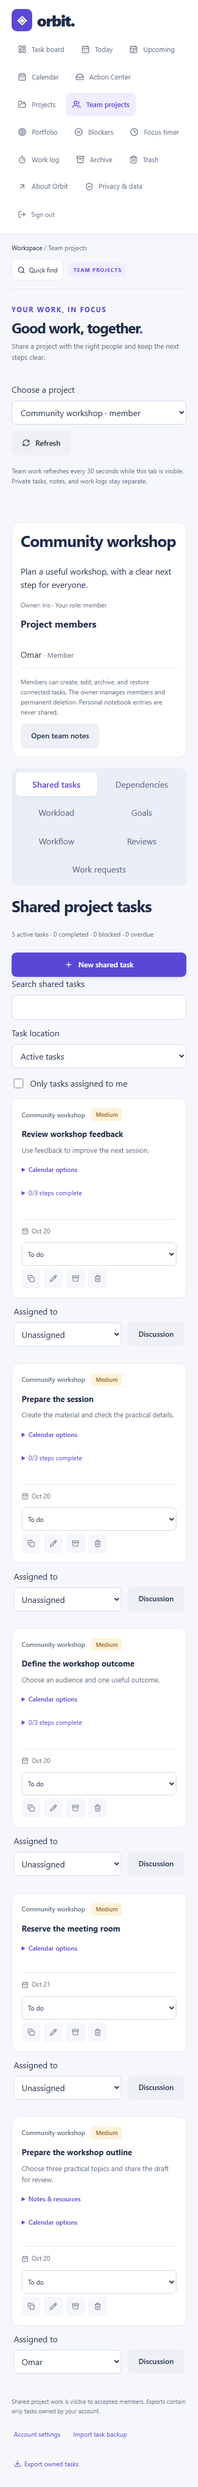
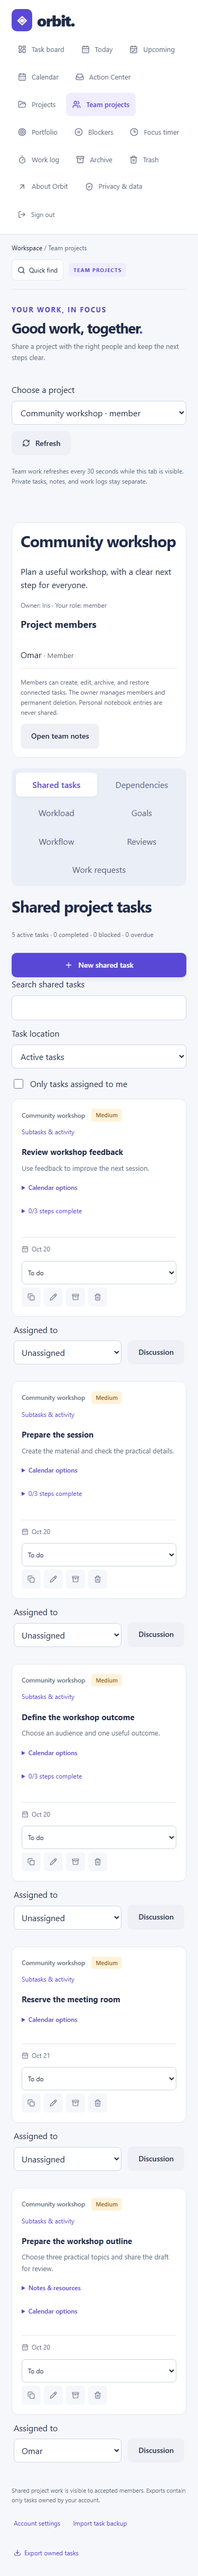
docs: document subtasks, activity safeguards and verified workflows

diff --git a/docs/PRODUCT_DIRECTION.md b/docs/PRODUCT_DIRECTION.md
@@ -13,7 +13,7 @@ Orbit already has private accounts, a task board, priorities, deadlines, search,
 Important distinctions:
 
 - Private project records now hold a brief, dates, and planning status. New tasks also have stable private project references; older groups can be connected explicitly. Accepted memberships, assignments and shared tasks are implemented.
-- A checklist step is not an independently assigned subtask.
+- Checklists are embedded steps; account users can also create one-level subtasks with independent status, deadlines and assignment.
 - The focus timer is separate from persisted manual work logs and weekly timesheets. Neither proves billable hours or available capacity.
 - A progress percentage is a completed-task ratio, not a delivery forecast.
 - Ownership protects private records; shared project routes enforce owner/member/guest roles.
@@ -42,7 +42,7 @@ Project records, stable task references and explicit legacy linking are implemen
 
 Dependencies reject cycles and cross-project links. Owner-reviewed date proposals use explicit calendar-day assumptions and conflict-safe batches. Workload uses estimates and project-scoped weekly capacity, keeping missing estimates and undated work visible.
 
-A checklist is still a sequence of steps inside one task; it is not a separate assigned subtask. External calendar handoff is a manual snapshot; it is not two-way synchronization.
+A checklist is a sequence of embedded steps. Independent subtasks are separate tasks in the same project; parent completion does not automatically complete them. External calendar handoff is a manual snapshot; it is not two-way synchronization.
 
 ## UI direction
 
@@ -70,42 +70,42 @@ Before shipping another feature, name the problem, define the smallest useful wo
 
 The proposal, excluding AI assistance at the user's request, is authorized for incremental implementation after the saved baseline `orbit-snapshot-2026-10-09`. Each milestone must remain usable, validated, and tested. Per the latest user instruction on October 10, push verified work in meaningful feature commits. Keep the saved baseline tag unchanged. Integrations requiring external accounts will be identified explicitly.
 
-| Proposal area                                                          | Current delivery status                                                                                                                                                                                                             |
-| ---------------------------------------------------------------------- | ----------------------------------------------------------------------------------------------------------------------------------------------------------------------------------------------------------------------------------- |
-| 1. Workspaces, projects, tasks, ownership, subtasks, context, recovery | Personal task foundation and context implemented; recovery and private project records implemented; stable references and explicit linking implemented; in-app invitations, accepted memberships and shared task access implemented |
-| 2. Multiple views / My Work                                            | Board, list, Today, Upcoming implemented; monthly deadline calendar and recorded project timeline implemented; owner-reviewed dependency date proposals and conflict-safe batches implemented                                       |
-| 3. Dependencies                                                        | Implemented: scoped prerequisite links, whole-graph cycle checks and safe concurrent mutations; owner-reviewed earliest-start scheduling implemented with explicit calendar-day assumptions                                         |
-| 4. Milestones                                                          | Implemented: private project checkpoints with dates and completion                                                                                                                                                                  |
-| 5. Useful dashboard                                                    | Implemented: personal overview plus bounded owned/joined project portfolio with health, progress and deadline summaries                                                                                                             |
-| 6. Workload and capacity                                               | Implemented: task estimates, weekly project capacity, due/overdue workload, undated and unestimated warnings                                                                                                                        |
-| 7. Time tracking                                                       | Local focus timer and persisted manual work logs/weekly timesheets implemented; billing integrations pending                                                                                                                        |
-| 8. Notifications and digest                                            | Implemented: invitations, targeted unread discussion notifications, review inbox and actionable in-app work digest; email/push delivery requires an external provider                                                               |
-| 9. Contextual team communication                                       | Implemented: paginated discussion, targeted teammate notifications, safe text and owner moderation; live sockets pending                                                                                                            |
-| 10. Approvals                                                          | Implemented: captured briefs and optional resource-link approvals, designated reviewers, approval/change/cancel decisions; hosted binary versions are outside the bounded version                                                   |
-| 11. Blockers                                                           | Implemented: required reasons, dedicated view, and project counts                                                                                                                                                                   |
-| 12. Project health                                                     | Implemented: explained flags for blockers, overdue work, missed milestones, and planning conflicts                                                                                                                                  |
-| 13. Roles and permissions                                              | Owner/member/guest permissions implemented; guests use a separate restricted read-only portal                                                                                                                                       |
-| 14. Guest/client portal                                                | Implemented: account invitations and restricted read-only project/task summaries; no anonymous public share links                                                                                                                   |
-| 15. Project templates                                                  | Implemented: task/checklist starters and three retry-safe multi-task project blueprints                                                                                                                                             |
-| 16. Recurring tasks                                                    | Implemented: daily/weekly/monthly next occurrence on completion; no background scheduler                                                                                                                                            |
-| 17. Forms / work requests                                              | Implemented: authenticated and optional public intake, revocable links, owner triage and retry-safe task creation                                                                                                                   |
-| 18. Automation                                                         | Implemented: opt-in checklist completion and bounded overdue-priority rules, manual run and daily scheduled sweep                                                                                                                   |
-| 19. Integrations                                                       | Implemented: private iCalendar exports and Google Calendar event handoff; live OAuth connections still require provider configuration                                                                                               |
-| 20. Command bar / global search                                        | Implemented: quick command bar, project/view navigation, and full-board task search                                                                                                                                                 |
-| 21. Team directory                                                     | Implemented: project owner and accepted member names; owner invitation management                                                                                                                                                   |
-| 22. Project notes / documentation                                      | Implemented: private and shared project notes, decisions and meetings plus task notes/resource links; rich-text editing is outside the bounded version                                                                              |
-| 23. Decision log                                                       | Implemented: private and shared editable decision entries; not an immutable audit log                                                                                                                                               |
-| 24. Meeting action items                                               | Implemented: meeting records and editable follow-up task creation; scheduling/invitations pending                                                                                                                                   |
-| 25. AI assistance                                                      | Excluded at the user's request; no AI assistant or AI-generated features planned                                                                                                                                                    |
-| 26. Action Center                                                      | Implemented: unified unfinished blocked/overdue/urgent/imminent work with reasons                                                                                                                                                   |
-| 27. Portfolio                                                          | Implemented: private cards/timeline and owned/joined project portfolio with search, pagination and actionable digest                                                                                                                |
-| 28. Goals / OKRs                                                       | Implemented: project objectives, measurable results, increasing/decreasing targets and conflict-safe manual progress                                                                                                                |
-| 29. Admin / export / account lifecycle                                 | Private task export and validated retry-safe imports implemented; one-time recovery/password changes and resumable account deletion implemented; protected daily cleanup configured for deployment                                  |
-| 30. UX                                                                 | Responsive baseline implemented; ongoing polish and verification                                                                                                                                                                    |
+| Proposal area                                                          | Current delivery status                                                                                                                                                                                                                                                                             |
+| ---------------------------------------------------------------------- | --------------------------------------------------------------------------------------------------------------------------------------------------------------------------------------------------------------------------------------------------------------------------------------------------- |
+| 1. Workspaces, projects, tasks, ownership, subtasks, context, recovery | Personal task foundation and context implemented; recovery and private project records implemented; stable references and explicit linking implemented; in-app invitations, accepted memberships and shared task access implemented; one-level independent subtasks and recent activity implemented |
+| 2. Multiple views / My Work                                            | Board, list, Today, Upcoming implemented; monthly deadline calendar and recorded project timeline implemented; owner-reviewed dependency date proposals and conflict-safe batches implemented                                                                                                       |
+| 3. Dependencies                                                        | Implemented: scoped prerequisite links, whole-graph cycle checks and safe concurrent mutations; owner-reviewed earliest-start scheduling implemented with explicit calendar-day assumptions                                                                                                         |
+| 4. Milestones                                                          | Implemented: private project checkpoints with dates and completion                                                                                                                                                                                                                                  |
+| 5. Useful dashboard                                                    | Implemented: personal overview plus bounded owned/joined project portfolio with health, progress and deadline summaries                                                                                                                                                                             |
+| 6. Workload and capacity                                               | Implemented: task estimates, weekly project capacity, due/overdue workload, undated and unestimated warnings                                                                                                                                                                                        |
+| 7. Time tracking                                                       | Local focus timer and persisted manual work logs/weekly timesheets implemented; billing integrations pending                                                                                                                                                                                        |
+| 8. Notifications and digest                                            | Implemented: invitations, targeted unread discussion notifications, review inbox and actionable in-app work digest; email/push delivery requires an external provider                                                                                                                               |
+| 9. Contextual team communication                                       | Implemented: paginated discussion, targeted teammate notifications, safe text and owner moderation; live sockets pending                                                                                                                                                                            |
+| 10. Approvals                                                          | Implemented: captured briefs and optional resource-link approvals, designated reviewers, approval/change/cancel decisions; hosted binary versions are outside the bounded version                                                                                                                   |
+| 11. Blockers                                                           | Implemented: required reasons, dedicated view, and project counts                                                                                                                                                                                                                                   |
+| 12. Project health                                                     | Implemented: explained flags for blockers, overdue work, missed milestones, and planning conflicts                                                                                                                                                                                                  |
+| 13. Roles and permissions                                              | Owner/member/guest permissions implemented; guests use a separate restricted read-only portal                                                                                                                                                                                                       |
+| 14. Guest/client portal                                                | Implemented: account invitations and restricted read-only project/task summaries; no anonymous public share links                                                                                                                                                                                   |
+| 15. Project templates                                                  | Implemented: task/checklist starters and three retry-safe multi-task project blueprints                                                                                                                                                                                                             |
+| 16. Recurring tasks                                                    | Implemented: daily/weekly/monthly next occurrence on completion; no background scheduler                                                                                                                                                                                                            |
+| 17. Forms / work requests                                              | Implemented: authenticated and optional public intake, revocable links, owner triage and retry-safe task creation                                                                                                                                                                                   |
+| 18. Automation                                                         | Implemented: opt-in checklist completion and bounded overdue-priority rules, manual run and daily scheduled sweep                                                                                                                                                                                   |
+| 19. Integrations                                                       | Implemented: private iCalendar exports and Google Calendar event handoff; live OAuth connections still require provider configuration                                                                                                                                                               |
+| 20. Command bar / global search                                        | Implemented: quick command bar, project/view navigation, and full-board task search                                                                                                                                                                                                                 |
+| 21. Team directory                                                     | Implemented: project owner and accepted member names; owner invitation management                                                                                                                                                                                                                   |
+| 22. Project notes / documentation                                      | Implemented: private and shared project notes, decisions and meetings plus task notes/resource links; rich-text editing is outside the bounded version                                                                                                                                              |
+| 23. Decision log                                                       | Implemented: private and shared editable decision entries; not an immutable audit log                                                                                                                                                                                                               |
+| 24. Meeting action items                                               | Implemented: meeting records and editable follow-up task creation; scheduling/invitations pending                                                                                                                                                                                                   |
+| 25. AI assistance                                                      | Excluded at the user's request; no AI assistant or AI-generated features planned                                                                                                                                                                                                                    |
+| 26. Action Center                                                      | Implemented: unified unfinished blocked/overdue/urgent/imminent work with reasons                                                                                                                                                                                                                   |
+| 27. Portfolio                                                          | Implemented: private cards/timeline and owned/joined project portfolio with search, pagination and actionable digest                                                                                                                                                                                |
+| 28. Goals / OKRs                                                       | Implemented: project objectives, measurable results, increasing/decreasing targets and conflict-safe manual progress                                                                                                                                                                                |
+| 29. Admin / export / account lifecycle                                 | Private task export and validated retry-safe imports implemented; one-time recovery/password changes and resumable account deletion implemented; protected daily cleanup configured for deployment                                                                                                  |
+| 30. UX                                                                 | Responsive baseline implemented; ongoing polish and verification                                                                                                                                                                                                                                    |
 
 ### Delivery scope
 
-The table distinguishes usable bounded implementations from larger service variants. AI assistance is excluded. Live OAuth sync, outbound email/push, live sockets and independently assigned subtasks are not shipped yet. File resources use validated external links rather than hosted uploads. No claim is made that every enterprise variant in the supplied catalogue is complete.
+The table distinguishes usable bounded implementations from larger service variants. AI assistance is excluded. Live OAuth sync, outbound email/push and live sockets are not shipped yet. One-level independent subtasks and bounded recent task activity are implemented for accounts; the local demo retains its existing task/checklist workflow. File resources use validated external links rather than hosted uploads. No claim is made that every enterprise variant in the supplied catalogue is complete.
 
 ### Team delivery limits
 

diff --git a/README.md b/README.md
@@ -49,6 +49,8 @@ Built by **Sheheryar Ahmad**, a Semester 5 Software Engineering student at **COM
 
 ![Owned and joined project portfolio with an actionable work digest](docs/screenshots/portfolio-desktop.png)
 
+![Task details with independently assigned subtasks](docs/screenshots/task-details-desktop.png)
+
 ![Recorded project date ranges on a monthly timeline](docs/screenshots/timeline-desktop.png)
 
 ![Quiet focus timer with pause, reset, and session length controls](docs/screenshots/focus-desktop.png)
@@ -65,6 +67,8 @@ Screenshots are from the working local demo using illustrative sample tasks.
 
 | Feature                   | What it solves                                                                                 |
 | ------------------------- | ---------------------------------------------------------------------------------------------- |
+| Independent subtasks      | Break work into one-level child tasks with their own status, deadline and assignee             |
+| Recent task activity      | See up to 50 actions and changed field names without keeping duplicate private note content    |
 | Resource reviews          | Capture task document/design links and record a designated reviewer’s feedback                 |
 | Discussion notifications  | Flag a comment for one teammate and acknowledge it in the work digest                          |
 | Public request forms      | Optional revocable links, account-free proposals, bounded submissions and private owner triage |
@@ -259,7 +263,7 @@ npm run build
 npm run format:check
 ```
 
-**Verified locally:** 83 API/input/planning/timer/password/template/recovery/export/recurrence/project tests and Chromium browser flows covering demo CRUD, storage persistence, search, filters, safe text rendering, mobile overflow, dialog Escape, checklists, task duplication, template previews and replacement protection, list actions and pagination, blockers, archive/trash restoration, private downloads, daily views, overnight date changes, project progress, focus pause/refresh/completion, registration, database-backed persistence, logout, and login. Expanded checks cover whole-month calendar queries, leap years, Action Center rules, milestones, health explanations, command navigation, notebook decisions/meetings, follow-up drafts, weekly time totals, private APIs, and explicit legacy linking. Team checks cover invitation state transitions, cross-project isolation, removed/pending users, role restrictions, assignment eligibility, private/team note separation, discussion moderation, review decisions and inbox access. Browser tests exercise two separate authenticated accounts and team layouts at 320–1440px.
+**Verified locally:** 88 API/input/planning/timer/password/template/recovery/export/recurrence/project tests and Chromium browser flows covering demo CRUD, storage persistence, search, filters, safe text rendering, mobile overflow, dialog Escape, checklists, task duplication, template previews and replacement protection, list actions and pagination, blockers, archive/trash restoration, private downloads, daily views, overnight date changes, project progress, focus pause/refresh/completion, registration, database-backed persistence, logout, and login. Expanded checks cover whole-month calendar queries, leap years, Action Center rules, milestones, health explanations, command navigation, notebook decisions/meetings, follow-up drafts, weekly time totals, private APIs, and explicit legacy linking. Team checks cover invitation state transitions, cross-project isolation, removed/pending users, role restrictions, assignment eligibility, private/team note separation, discussion moderation, review decisions and inbox access. Browser tests exercise two separate authenticated accounts and team layouts at 320–1440px.
 
 For browser checks:
 
@@ -345,10 +349,11 @@ See [the delivery tracker](docs/PRODUCT_DIRECTION.md) for implemented capabiliti
 - [x] Recovery-code password reset, password changes, and account deletion
 - [x] Portfolio, work digest, and targeted discussion notifications
 - [x] Optional public work requests and resource-link reviews
-- [ ] Independent assigned subtasks
+- [x] One-level subtasks with independent deadlines, status and assignment
+- [x] Bounded recent task activity with privacy-safe field names
 - [ ] Email verification and email-based recovery/delivery
 - [ ] Live Google Calendar OAuth integration
-- [ ] Activity history and optional live task updates
+- [ ] Optional live task updates (current team refresh uses polling)
 - [ ] Accessibility audit and measured production performance
 - [ ] Live deployment link and LinkedIn walkthrough
 

diff --git a/docs/API.md b/docs/API.md
@@ -227,3 +227,16 @@ PATCH /collaboration/:taskId/comments/:commentId/read with {} acknowledges only 
 Review creation accepts optional includeResources: true. The server captures up to eight validated resource labels/URLs from the current scoped task; caller-supplied resources are rejected, and a task without resources cannot request a resource review. Listing returns the captured resources alongside the brief. The designated reviewer uses the normal approve/request-changes flow.
 
 Later task-link edits never replace a review snapshot. External file contents can change at the same URL; Orbit does not fetch, upload, fingerprint or lock those files. This records approval of the brief and linked resources presented for review, not an immutable binary-file version.
+
+### Independent subtasks and recent task activity
+
+Account routes (also available under `/api/projects/:projectId/tasks` for accepted members):
+
+- `GET /api/tasks/:id/details?page=1`: scoped parent summary, 30 children/page, eligible assignees, pending setup title and the latest 50 activity events. Guests, revoked members and other owners cannot access details.
+- `POST /api/tasks/:id/subtasks { key: UUID, task: taskDraft }`: one-level child in the same project, with independent status/deadline/assignment. Task drafts cannot inject owner, parent or project IDs. Recurring tasks cannot be parents or children.
+- `POST /api/tasks/:id/subtasks/resume {}`: repair interrupted reserved setup. Reuses the saved ID without overwriting an existing child. Active worker leases return 409; retry after one minute.
+- `PATCH /api/tasks/:id/subtasks/detach {}`: make an active child independent without changing its content/project/assignment. Pending setup must finish first.
+
+Creation uses a normalized-content digest and persisted receipt. Identical completed retries return the existing child, or `{ task: null, previouslyRemoved: true }` if it was removed/detached. Changed content under the same key returns 409. Each root supports 100 retained children and 200 lifetime creation receipts. Requests use existing account/IP limits. Pending setup blocks parent lifecycle/project changes. Child lifecycle/detach operations also wait while their setup is pending. Parent completion/archive/trash does not cascade; retained children (including Trash/archive) block parent moves, recurrence and permanent deletion. This is a resumable workflow on standalone MongoDB, not an all-or-nothing transaction.
+
+Activity records actor name, action, field names and time, without previous values. Normal board responses omit history and setup receipts/drafts. Project moves reset history; deleted actors become `Former account`. Recorded task changes include ordinary edits, assignment, lifecycle, subtask setup/detach, imports, templates, recurring creation, overdue priority rules and dependency schedule application. It does not record every read, discussion or project-level action and is not a compliance audit log. Previously existing records have no retroactive events. Task exports retain parent IDs as metadata; imports deliberately flatten subtasks into independent tasks in the new private project. The import confirmation states this behavior.

diff --git a/docs/ARCHITECTURE.md b/docs/ARCHITECTURE.md
@@ -45,7 +45,11 @@ The local demo uses a different adapter. It never sends demo tasks to the accoun
 
 ## Current scope
 
-Projects are separate records with stable task references, dates, milestones and planning status. Shared projects use explicit invitations and owner/member/guest permissions. Accepted members can collaborate through project-scoped routes; guests use a restricted read-only portal. Team views refresh through polling, rather than live sockets. Checklists remain embedded steps; independently assigned subtasks are pending.
+Projects are separate records with stable task references, dates, milestones and planning status. Shared projects use explicit invitations and owner/member/guest permissions. Accepted members can collaborate through project-scoped routes; guests use a restricted read-only portal. Team views refresh through polling. Checklists remain embedded steps; account users can also create one-level subtasks with their own status, deadline and assignee. Subtasks reference another task in the same project and reuse normal task permissions and views.
+
+Subtask creation reserves an ID and request digest on the parent before saving the child. A persistent pending draft allows interrupted standalone-MongoDB writes to resume; a short worker lease reduces concurrent retries. Parent family revisions guard project moves, lifecycle changes and deletion against concurrent creation. This is a resumable multi-document workflow, rather than a transaction. Parent completion/archive/trash does not cascade to children, and retained children block parent project moves, recurrence and permanent deletion. Child detach is explicit. Exports preserve parent IDs as metadata; imports recover task content as independent tasks.
+
+Task activity is embedded, capped at 50 events, and loaded on demand with task details. Recorded actions cover task creation/editing, assignment, lifecycle changes, subtask setup/detach, imports, templates, recurrence, overdue priority rules and dependency date application. Events contain actor identity, action, field names and timestamp, without old notes or field values. Project moves reset history to avoid carrying prior project context into another team; account deletion redacts that account's actor identity in retained shared histories. Activity is a convenience history, not an immutable audit trail. Existing records have no retroactive history.
 
 ## Task lifecycle
 

diff --git a/docs/TESTING.md b/docs/TESTING.md
@@ -184,3 +184,9 @@ Public intake: enable a link as owner, open it in a private window without signi
 Discussion notifications: choose another accepted member in the optional Notify a teammate field, add a comment, and verify it appears in that person's Portfolio digest. Mark read and refresh; it must remain dismissed. A different member cannot acknowledge it. Revoke membership or move the task away and verify the notification disappears. Names/text must render safely, and guest recipients must be excluded.
 
 Resource review: add an HTTPS document/design link to a shared task, select the task in Reviews, check Include resource links, and request another member's review. Verify the captured link, safe new-tab attributes, and decision recording. Change the task link afterward; the review must retain the original URL. A brief-only request must capture no resources. Guests/foreign accounts must not access review resources.
+
+Subtasks and activity: sign into an account, open a task's Subtasks & activity control, and add a child. Give it a different deadline/status, assign an accepted member, and confirm it appears on the board. Finish the parent and confirm the child remains unchanged. Open the child's details to return to its parent or detach it. A parent with retained children must refuse project moves, recurrence and permanent deletion. Archive/Trash must not cascade. Recurring tasks use checklist steps instead. Check Escape/focus when closing the nested task editor and test widths 320�1440px.
+
+Activity should show actor/action/time and changed field names, without old note contents. Normal task lists must omit activity, pending drafts and receipts. The API suite covers identical/changed retries, deleted/detached child non-recreation, interrupted save repair, pending child detach/deletion refusal, stale family revisions, 30-row pagination, 100-child/200-receipt caps, guest/revoked access, cross-project parent privacy, the 50-event cap and actor redaction after account deletion. Imports preserve child content but flatten relationships, as stated in their confirmation.
+
+A deterministic race check pauses an old full edit at its database write, moves the parent to another project, creates a child there, then releases the old edit. The old write must fail without moving the parent back, overwriting notes or splitting the family across projects.
